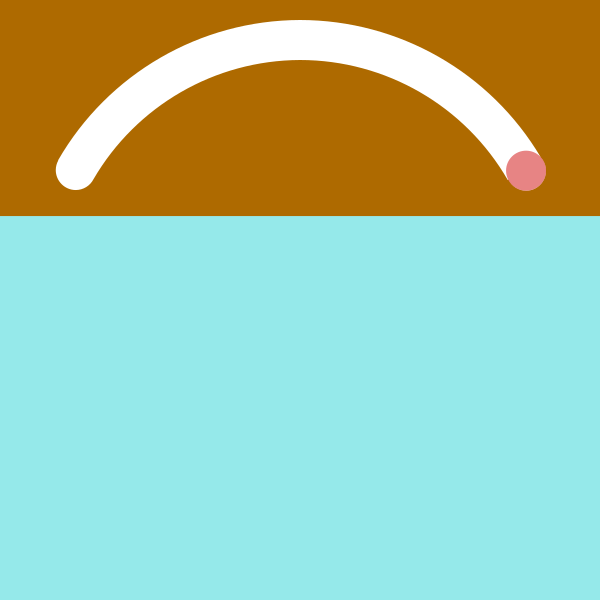
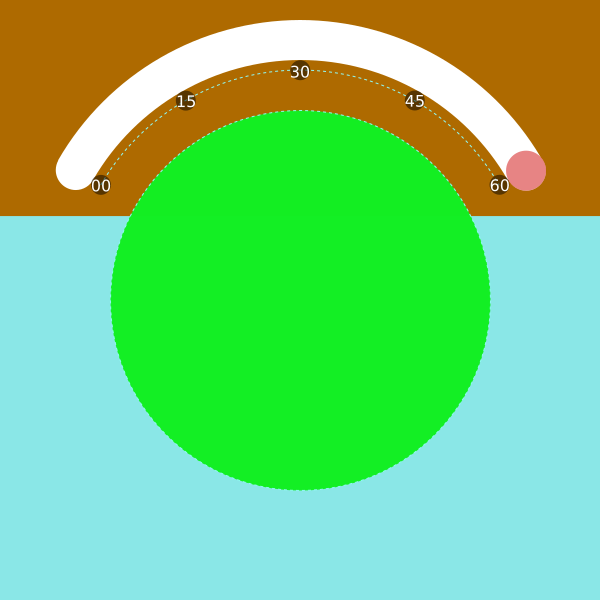
quadrant

diff --git a/cyclock.go b/cyclock.go
@@ -4,6 +4,7 @@ import (
 	"embed"
 	"fmt"
 	"math"
+	"os"
 	"time"
 
 	"github.com/veandco/go-sdl2/img"
@@ -59,18 +60,20 @@ func drawLine(surface *sdl.Surface, x1, y1, x2, y2 int) {
 	}
 	defer renderer.Destroy()
 
-	renderer.SetDrawColor(255, 255, 255, 255) // Set color to red
+	//renderer.SetDrawColor(255, 255, 255, 255)
+	renderer.SetDrawColor(0, 0, 255, 0)
+	//renderer.SetDrawColor(0, 0, 0, 255)
 	renderer.DrawLine(int32(x1), int32(y1), int32(x2), int32(y2))
 }
 
-func drawDial(surface *sdl.Surface, dot *sdl.Surface, minutes int, paddle *sdl.Surface, dial int) {
+func drawDot(surface *sdl.Surface, x, y int, radius int, dot *sdl.Surface) {
+	dot.Blit(nil, surface, &sdl.Rect{
+		X: int32(x - radius),
+		Y: int32(y - radius),
+		W: 0, H: 0})
+}
 
-	drawDot := func(surface *sdl.Surface, x, y int, radius int) {
-		dot.Blit(nil, surface, &sdl.Rect{
-			X: int32(x - radius),
-			Y: int32(y - radius),
-			W: 0, H: 0})
-	}
+func drawDial(surface *sdl.Surface, dot *sdl.Surface, minutes int, paddle *sdl.Surface, dial int) {
 
 	positionAtAngle := func(cx, cy, a, r0, aq, r1 int) (int, int) {
 		rad := float64(a) / 180.0 * math.Pi
@@ -97,7 +100,7 @@ func drawDial(surface *sdl.Surface, dot *sdl.Surface, minutes int, paddle *sdl.S
 		aq += (a0 - rt0) * (90 - 360*2) / (rt1 - rt0)
 	}
 
-	r0 := 170
+	r0 := 160 //215 //170
 	r1 := 260 - r0
 	rd := 20
 
@@ -105,43 +108,41 @@ func drawDial(surface *sdl.Surface, dot *sdl.Surface, minutes int, paddle *sdl.S
 	a1 := a0 + aq
 
 	x0, y0 := positionAtAngle(300, 300, a0, r0, 0, 0)
-
 	x, y := positionAtAngle(300, 300, a0, r0, a1, r1)
 
-	if dial%4 == 0 {
+	if paddle == nil {
+		// just draw lines and pivots
 		drawLine(surface, 300, 300, x0, y0)
+		drawLine(surface, x0, y0, x, y)
+		drawDot(surface, x0, y0, rd, dot)
+	} else {
+		drawDot(surface, x, y, rd, dot)
+		paddle.Blit(nil, surface, &sdl.Rect{
+			X: int32(x) - (paddle.W / 2),
+			Y: int32(y) - (paddle.H / 2),
+			W: 0, H: 0})
 	}
-	drawLine(surface, x0, y0, x, y)
-	drawDot(surface, x, y, rd)
-	if dial == 11 {
-		drawDot(surface, 300, 300, rd)
-	}
-	drawDot(surface, x0, y0, rd)
-
-	paddle.Blit(nil, surface, &sdl.Rect{
-		X: int32(x) - (paddle.W / 2),
-		Y: int32(y) - (paddle.H / 2),
-		W: 0, H: 0})
 }
 
 var bigT int = 0
 
-const debug bool = false
+var debug bool = false
 
-func getTime() int {
+func getTime() (int, int) {
 
 	if debug {
 		bigT += 1
 		bigT %= 720
-		return bigT
+		return bigT, (bigT / 3) % 60
 
 	}
 	t := time.Now()
 
 	h := t.Hour()
 	m := t.Minute()
+	s := t.Second()
 
-	return m + h*60
+	return m + h*60, s
 }
 
 func formatTime(tim int) string {
@@ -152,6 +153,10 @@ func formatTime(tim int) string {
 }
 
 func main() {
+	if len(os.Args) > 1 && os.Args[1] == "-d" {
+		debug = true
+	}
+
 	if err := ttf.Init(); err != nil {
 		panic(err)
 	}
@@ -201,11 +206,17 @@ func main() {
 			if !running {
 				return
 			}
-			minutes := getTime()
+			minutes, seconds := getTime()
 			surface.FillRect(nil, 0)
 
 			window.SetTitle(formatTime(minutes))
 
+			// lines
+			for j := range 12 {
+				drawDial(surface, dot, minutes, nil, j)
+			}
+
+			// numbers
 			for j := range 12 {
 				drawDial(surface, dot, minutes, paddle[j], j)
 			}
@@ -214,6 +225,29 @@ func main() {
 				X: 0,
 				Y: 0,
 				W: 0, H: 0})
+
+			// second dial and central hinge
+			{
+				a := float64(seconds*6-90) / 180.0 * math.Pi
+				x := int(185.0*math.Cos(a)) + 300
+				y := int(185.0*math.Sin(a)) + 300
+
+				a += math.Pi / 2.0
+				xa := int(5.0*math.Cos(a)) + 300
+				ya := int(5.0*math.Sin(a)) + 300
+
+				a -= math.Pi
+				xb := int(5.0*math.Cos(a)) + 300
+				yb := int(5.0*math.Sin(a)) + 300
+
+				drawLine(surface, 300, 300, xa, ya)
+				drawLine(surface, 300, 300, xb, yb)
+				drawLine(surface, 300, 300, x, y)
+				drawLine(surface, xa, ya, x, y)
+				drawLine(surface, xb, yb, x, y)
+			}
+			drawDot(surface, 300, 300, 20, dot)
+
 			window.UpdateSurface()
 
 			if debug {
